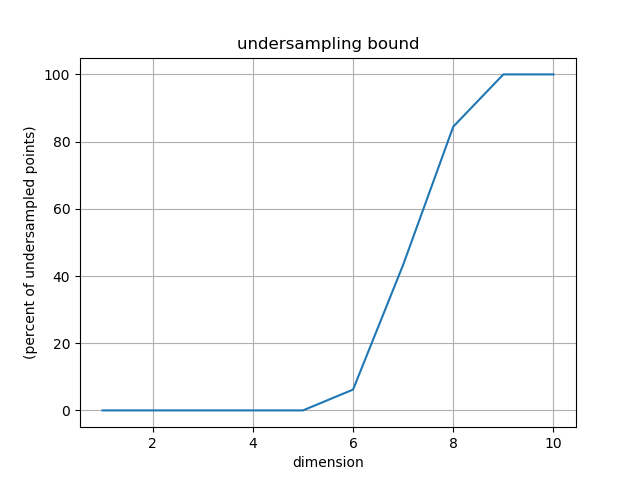
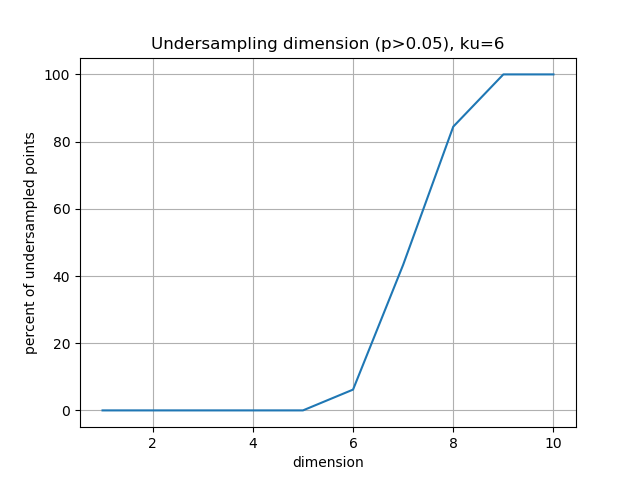
update docs

Changed region(s): [[0.25, 0.0625, 0.6875, 0.125], [0.0312, 0.25, 0.0625, 0.75], [0.7188, 0.0625, 0.7812, 0.125]]

diff --git a/infotopo.py b/infotopo.py
@@ -544,6 +544,7 @@ https://stackoverflow.com/questions/101439/the-most-efficient-way-to-implement-a
         minima_tot=1000000.00
         ListEntropyordre={}
         undersampling_percent=np.array([])
+        
  
         for i in range(1,self.dimension_max+1):
             ListEntropyordre[i]=[]
@@ -576,9 +577,10 @@ https://stackoverflow.com/questions/101439/the-most-efficient-way-to-implement-a
                 if ListEntropyordre[a][x] >= ((math.log(self.sample_size)/math.log(2))-delta_entropy_histo):
                     nb_undersampling_point=nb_undersampling_point+1
                     if a ==1:
-                        print(ListEntropyordre[a][x])
-            undersampling_percent = np.hstack((undersampling_percent,100*nb_undersampling_point/self._binomial(self.dimension_max,a)))
-            print('undersampling_percent in dim ',a,' = ', 100*nb_undersampling_point/self._binomial(self.dimension_max,a))
+                        print(ListEntropyordre[a][x])      
+            percent_undersampled =  100*nb_undersampling_point/self._binomial(self.dimension_max,a)              
+            undersampling_percent = np.hstack((undersampling_percent, percent_undersampled))
+            print('undersampling percent in dim ',a,' = ', percent_undersampled )             
             ListEntropyordre[a].append(minima_tot-0.1)
             ListEntropyordre[a].append(maxima_tot+0.1)
             n, bins, patches = plt.hist(ListEntropyordre[a], self.nb_bins_histo, facecolor='g')
@@ -588,14 +590,22 @@ https://stackoverflow.com/questions/101439/the-most-efficient-way-to-implement-a
                 matrix_distrib_info=n
             else:
                 matrix_distrib_info=np.c_[matrix_distrib_info,n]
-            plt.grid(True)
-    
+            plt.grid(True)   
+        
+        boolean_test = True
+        undersampling_dim = self.dimension_max
+        for xxxx in  range(0,self.dimension_max) :   
+            if undersampling_percent[xxxx] > 5 and boolean_test: 
+                undersampling_dim = xxxx+1
+                boolean_test = False
+        print('the undersampling dimension is ', undersampling_dim)  
+
         num_fig=num_fig+1
         plt.figure(num_fig)
         abssice_degree=np.linspace(1, self.dimension_max, self.dimension_max)
         plt.plot(abssice_degree,undersampling_percent)
-        plt.ylabel('(percent of undersampled points)')
-        plt.title('undersampling bound')
+        plt.ylabel('percent of undersampled points')
+        plt.title(str('Undersampling dimension (p>0.05), ku='+str(undersampling_dim)))
         plt.xlabel('dimension')
         plt.grid(True)
 
@@ -1025,7 +1035,7 @@ if __name__ == "__main__":
     print('Time for CPU(seconds) Mutual Information: ', stop - start)
     print(Ninfomut)
     information_topo.mutual_info_simplicial_lanscape(Ninfomut)
-    information_topo = infotopo(dim_to_rank = 4, number_of_max_val = 2)
+    information_topo = infotopo(dim_to_rank = 6, number_of_max_val = 3)
     dico_max, dico_min = information_topo.display_higher_lower_mutual_information(Ninfomut, dataset)
     print("the first maximum tuples are:", dico_max )
     print("the first minimum tuples are:", dico_min )

diff --git a/docs/basic_methods.rst b/docs/basic_methods.rst
@@ -38,7 +38,7 @@ visualise the results, and pandas to handle the data.
 
 .. code:: python3
 
-    from sklearn.datasets import load_iris, load_digits
+    from sklearn.datasets import load_iris, load_digits, load_boston, load_diabetes
     import pandas as pd
     import seaborn as sns
     import matplotlib.pyplot as plt
@@ -347,6 +347,41 @@ We begin to see that Homological tools provides a wide generalisation of complex
 The Iris dataset and its associated information landsacpes are in too low dimension to appreciate all the interest of the methods in higher dimensions,
 so lets turn to larger dimensional classical machine learning dataset: Diabetes dataset. This dataset is kindly also furnished by scikitlearn, and we load
  it with the same methods as previously:
+
+.. code:: python3 
+
+    dataset = load_diabetes()
+    dataset_df = pd.DataFrame(dataset.data, columns = dataset.feature_names)
+    dimension_max = dataset.data.shape[1]
+    dimension_tot = dataset.data.shape[1]
+    sample_size = dataset.data.shape[0]
+    nb_of_values = 9
+    forward_computation_mode = False
+    work_on_transpose = False
+    supervised_mode = False
+    sampling_mode = 1
+    deformed_probability_mode = False
+    dataset_df = pd.DataFrame(dataset.data, columns=dataset.feature_names)
+
+ This dataset contains 10 variables-dimensions for a sample size (number of points) of 442 and a target (label) variable which quantifies diabetes 
+ progress. The ten variables are [age, sex, body mass index, average blood pressure, T-Cells, low-density lipoproteins, high-density lipoproteins,
+ thyroid stimulating hormone, lamotrigine, blood sugar level] in this order. As before, we execute:
+
+ .. code:: python3
+
+    Nentropie = information_topo.simplicial_entropies_decomposition(iris.data)
+    information_topo.entropy_simplicial_lanscape(Nentropie)
+
+ and we obtain the following entropy landscape:
+
+ .. image:: images/diabetes_entropy_landscape.png
+
+ which corresponds to the following distributions of joint entropies for each dimensions: 
+
+ .. image:: images/diabetes_entropy_histograms.png
+
+ The number of tuples (a total of :math:`2^10`) to represent becomes to hudge, and enforces to plot only the distribution histograms of k-tuples 
+ value (with a given number of bins = nb_bins_histo) in each dimension. 
 
 
 
